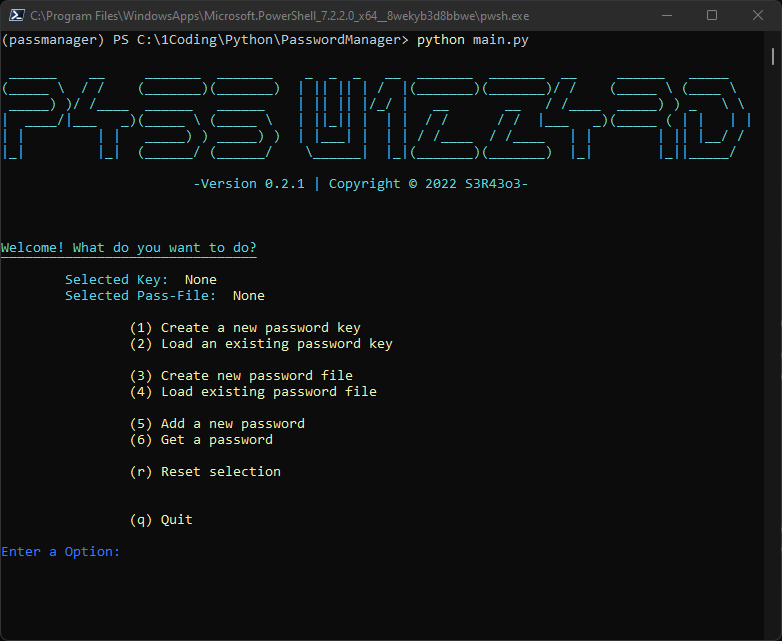
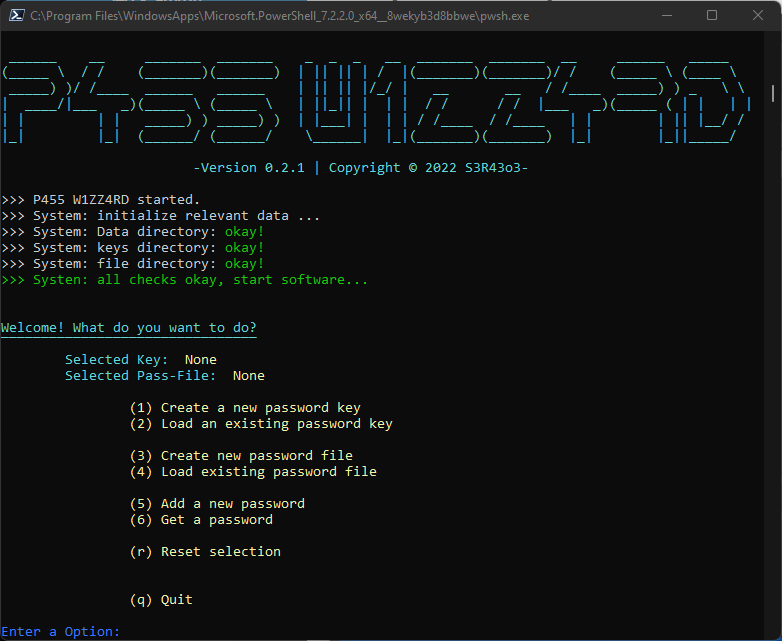
adding filevalidation /creation at start init

diff --git a/main.py b/main.py
@@ -23,6 +23,7 @@ class PasswordManager:
 		self.password_file = None
 		self.password_dic = {}
 
+		self.fistRun = True
 		self.keySelected = False
 		self.pathKey = None
 		self.pathSelected = False
@@ -36,7 +37,7 @@ class PasswordManager:
 		with open(path, 'wb') as f:
 			f.write(self.key)
 			f.close()
-		print(BColors.OKGREEN+'\nSuccess! New Passwordkey created\n'+BColors.CLEAR)
+		print(BColors.OKGREEN+'Success! New Passwordkey created\n'+BColors.CLEAR)
 			
 	def loadKey(self,path):
 		self.pathKey = path
@@ -57,7 +58,7 @@ class PasswordManager:
 		if initial_values is not None:
 			for key, values in initial_values.items():
 				self.addPassword(key,values)
-		print(BColors.OKGREEN+'\nSuccess! New Passwordfile created\n'+BColors.CLEAR)
+		print(BColors.OKGREEN+'Success! New Passwordfile created\n'+BColors.CLEAR)
 			
 	def loadPassFile(self, path):
 		self.pathFile = path
@@ -80,7 +81,7 @@ class PasswordManager:
 			with open(self.password_file, 'a+') as f:
 				encrypted = Fernet(self.key).encrypt(password.encode())
 				f.write(site + ":" + str(encrypted.decode())+ "\n")
-				print(BColors.OKGREEN+"\nSuccess! New password saved!\n")
+				print(BColors.OKGREEN+"Success! New password saved!\n")
 				f.close()
 
 	def getPassword(self, site):
@@ -104,16 +105,26 @@ class PasswordManager:
 		self.pathKey = None
 		self.pathSelected = False
 		self.pathFile = None
-
 	
-def main():
-	password = {
-		"PLACEHOLDER-PASS-1": "743z4782",
-	}
-	
-	pm = PasswordManager()
-	clearConsole()
-	print(BColors.BOLD+BColors.OKCYAN+(r"""
+	def initPassmanager(self, fileDir, keyDir):
+		print('>>> P455 W1ZZ4RD started.\n>>> System: initialize relevant data ...')
+		sleep(1.5)
+		if not os.path.exists('data'):
+			print(BColors.VIOLETT+'>>> System: No Savedirectorys found! Create dat directory...'+BColors.CLEAR)
+			os.mkdir('data/')
+		if not os.path.exists('data/'+fileDir):
+			print(BColors.VIOLETT+'>>> System: No '+fileDir+' dir. Create one...'+BColors.CLEAR)
+			os.mkdir('data/'+fileDir)
+		if not os.path.exists('data/'+keyDir):
+			print(BColors.VIOLETT+'>>> System: No '+keyDir+' dir. Create one...'+BColors.CLEAR)
+			os.mkdir('data/'+keyDir)
+		print('>>> System: Data directory:'+BColors.OKGREEN+' okay!'+BColors.CLEAR)
+		print('>>> System: '+keyDir+' directory:'+BColors.OKGREEN+' okay!'+BColors.CLEAR)
+		print('>>> System: '+fileDir+' directory:'+BColors.OKGREEN+' okay!'+BColors.CLEAR)
+		print(BColors.OKGREEN+'>>> Systen: all checks okay, start software...'+BColors.CLEAR)
+		sleep(3)
+	def banner(self):
+		return print(BColors.BOLD+BColors.OKCYAN+(r"""
  ______    __     _______  _______    _  _  _   __  _______  _______  __     ______   _____   
 (_____ \  / /    (_______)(_______)  | || || | /  |(_______)(_______)/ /    (_____ \ (____ \  
  _____) )/ /____  ______   ______    | || || |/_/ |   __       __   / /____  _____) ) _   \ \ 
@@ -123,11 +134,13 @@ def main():
 			
    			-Version 0.2.1 | Copyright © 2022 S3R43o3-
 """)+BColors.CLEAR)
-	menu = print(BColors.ORANGE+BColors.BOLD+(f"""\n
+	
+	def menu(self):
+		return print(BColors.ORANGE+BColors.BOLD+(f"""\n
 {BColors.OKCYAN+BColors.BOLD+"Welcome! What do you want to do?"+BColors.CLEAR+BColors.ORANGE+BColors.BOLD}
 {BColors.OKCYAN+BColors.BOLD+"‾‾‾‾‾‾‾‾‾‾‾‾‾‾‾‾‾‾‾‾‾‾‾‾‾‾‾‾‾‾‾‾"}
-	{BColors.OKCYAN+"Selected Key: "+BColors.CLEAR+BColors.ORANGE+BColors.BOLD} {pm.pathKey}
-	{BColors.OKCYAN+"Selected Pass-File: "+BColors.CLEAR+BColors.ORANGE+BColors.BOLD} {pm.pathFile}
+	{BColors.OKCYAN+"Selected Key: "+BColors.CLEAR+BColors.ORANGE+BColors.BOLD} {self.pathKey}
+	{BColors.OKCYAN+"Selected Pass-File: "+BColors.CLEAR+BColors.ORANGE+BColors.BOLD} {self.pathFile}
  
 		(1) Create a new password key
 		(2) Load an existing password key
@@ -143,20 +156,63 @@ def main():
 
 		(q) Quit              
 	"""+BColors.CLEAR))
-	menu
+	 
+
+	
+def main():
+	password = {
+		"PLACEHOLDER-PASS-1": "743z4782",
+	}
+	
+	pm = PasswordManager()
+	clearConsole()
+# 	print(BColors.BOLD+BColors.OKCYAN+(r"""
+#  ______    __     _______  _______    _  _  _   __  _______  _______  __     ______   _____   
+# (_____ \  / /    (_______)(_______)  | || || | /  |(_______)(_______)/ /    (_____ \ (____ \  
+#  _____) )/ /____  ______   ______    | || || |/_/ |   __       __   / /____  _____) ) _   \ \ 
+# |  ____/|___   _)(_____ \ (_____ \   | ||_|| |  | |  / /      / /  |___   _)(_____ ( | |   | |
+# | |         | |   _____) ) _____) )  | |___| |  | | / /____  / /____   | |        | || |__/ / 
+# |_|         |_|  (______/ (______/    \______|  |_|(_______)(_______)  |_|        |_||_____/  
+			
+#    			-Version 0.2.1 | Copyright © 2022 S3R43o3-
+# """)+BColors.CLEAR)
+# 	menu = print(BColors.ORANGE+BColors.BOLD+(f"""\n
+# {BColors.OKCYAN+BColors.BOLD+"Welcome! What do you want to do?"+BColors.CLEAR+BColors.ORANGE+BColors.BOLD}
+# {BColors.OKCYAN+BColors.BOLD+"‾‾‾‾‾‾‾‾‾‾‾‾‾‾‾‾‾‾‾‾‾‾‾‾‾‾‾‾‾‾‾‾"}
+# 	{BColors.OKCYAN+"Selected Key: "+BColors.CLEAR+BColors.ORANGE+BColors.BOLD} {pm.pathKey}
+# 	{BColors.OKCYAN+"Selected Pass-File: "+BColors.CLEAR+BColors.ORANGE+BColors.BOLD} {pm.pathFile}
+ 
+# 		(1) Create a new password key
+# 		(2) Load an existing password key
+
+# 		(3) Create new password file
+# 		(4) Load existing password file
+
+# 		(5) Add a new password
+# 		(6) Get a password
+		
+# 		(r) Reset selection
+		
+
+# 		(q) Quit              
+# 	"""+BColors.CLEAR))
+	if(pm.fistRun):
+		pm.banner()
+	pm.initPassmanager('file','keys')
+	pm.menu()
 	done = False
 	while not done:
 		try:
-			pm.infoPrint()
+			#pm.infoPrint()
 			choice = input(BColors.BOLD+BColors.OKBLUE+"Enter a Option: "+BColors.CLEAR)
 			if choice == "1":
-				pm.infoPrint()
+				#pm.infoPrint()
 				path = input(BColors.BOLD+BColors.OKBLUE+"Enter keyname: "+BColors.CLEAR)
 				if path.lower() == 'q':
 					return main()
 				pm.createKey(path)
 			elif choice == "2":            
-				pm.infoPrint()
+				#pm.infoPrint()
 				savedKeys = os.listdir('data/keys')
 				if savedKeys == "":
 					print(BColors.BOLD+BColors.RED+"\nNo key exist! Please create a key first!\n"+BColors.CLEAR)
@@ -173,22 +229,24 @@ def main():
 				if path.lower() == 'q':
 					return main()
 				pm.loadKey(path)
+				pm.menu()
 			elif choice == "3":
 				if not pm.keySelected:
 					print(BColors.BOLD+BColors.RED+'\n>>>>>>>>>> You need to select a passwordkey first! <<<<<<<<<<\n'+BColors.CLEAR)
 					sleep(2.0)
 					return main()
-				pm.infoPrint()		
+				#pm.infoPrint()		
 				path = input(BColors.BOLD+BColors.OKBLUE+"Enter a name for new passwordfile: "+BColors.CLEAR)
 				if path.lower() == 'q':
 					return main()
 				pm.createPassFile(path, password)
+				pm.menu()
 			elif choice == "4":
 				if not pm.keySelected:
 					print(BColors.BOLD+BColors.RED+'\n>>>>>>>>>> You need to select a passwordkey first! <<<<<<<<<<\n'+BColors.CLEAR)
 					sleep(2.0)
 					return main()
-				pm.infoPrint()
+				#pm.infoPrint()
 				savedFiles = os.listdir('data/files')
 				count = 0
 				print(BColors.BOLD+BColors.ORANGE+'\nYour saved passfiles: \n'+BColors.CLEAR)
@@ -201,12 +259,13 @@ def main():
 				if path.lower() == 'q':
 					return main()
 				pm.loadPassFile(path)
+				pm.menu()
 			elif choice == "5":
 				if not pm.keySelected:
 					print(BColors.BOLD+BColors.RED+'\n>>>>>>>>>> You need to select a passwordkey first! <<<<<<<<<<\n'+BColors.CLEAR)
 					sleep(2.0)
 					return main()
-				pm.infoPrint()
+				#pm.infoPrint()
 				site = input(BColors.BOLD+BColors.OKBLUE+"Enter site: "+BColors.CLEAR)
 				password = input(BColors.BOLD+BColors.OKBLUE+"Enter password: "+BColors.CLEAR)
 				if password.lower() == 'q' | site.lower() == 'q':
@@ -214,6 +273,7 @@ def main():
 					sleep(1.5)
 					return main()
 				pm.addPassword(site,password)
+				pm.menu()
 			elif choice == "6":
 				if not pm.keySelected:
 					print(BColors.BOLD+BColors.RED+'\n>>>>>>>>>> You need to select a passwordkey first! <<<<<<<<<<\n'+BColors.CLEAR)
@@ -222,6 +282,7 @@ def main():
 				site = input(BColors.BOLD+BColors.OKBLUE+"What site password you want?: "+BColors.CLEAR)
 				if site.lower() == 'q':
 					return main()
+				pm.menu()
 				print(BColors.ORANGE+BColors.BOLD+f"Password for {BColors.OKGREEN+site+BColors.CLEAR+BColors.ORANGE+BColors.BOLD} is {BColors.OKGREEN+pm.getPassword(site)+BColors.CLEAR}")
 			elif choice.lower() == "q":
 				done = True
@@ -239,6 +300,7 @@ def main():
 
 if __name__=='__main__':
 	clearConsole()
+	
 	main()        
 
 
